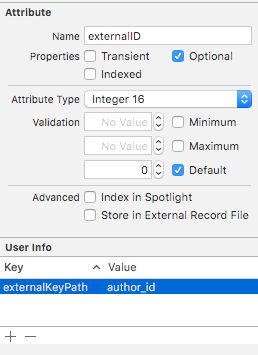
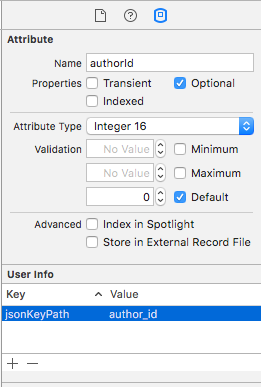
externalID and externalKeyPath renaming

Changed region(s): [[0.0, 0.0, 1.0, 1.0], [0.6512, 0.1239, 0.9302, 0.2479], [0.9612, 0.062, 0.9922, 0.1859]]

diff --git a/Example/Tests/ModelTests.swift b/Example/Tests/ModelTests.swift
@@ -91,7 +91,7 @@ class ModelTests: XCTestCase
     func testPopulateObjectAttributes()
     {
         let book = Book(dictionary: bookDict1, entity: bookEntity)
-        XCTAssertEqual(book.externalID!.integerValue, Int(bookId1))
+        XCTAssertEqual(book.bookId!.integerValue, Int(bookId1))
         XCTAssertEqual(book.title, title1)
         XCTAssertEqual(book.year, year1)
     }
@@ -112,7 +112,7 @@ class ModelTests: XCTestCase
             return
         }
         
-        XCTAssertEqual(author.externalID!.integerValue, Int(authorId1))
+        XCTAssertEqual(author.authorId!.integerValue, Int(authorId1))
         XCTAssertEqual(author.firstName, firstName1)
         XCTAssertEqual(author.lastName, lastName1)
         XCTAssertEqual(books.count, bookDicts.count)
@@ -207,14 +207,14 @@ class ModelTests: XCTestCase
     func testEncodeObjectAttributes()
     {
         let book = Book(dictionary: JsonDictionary(), entity: bookEntity)
-        book.externalID = NSNumber(integer: Int(bookId1)!)
+        book.bookId = NSNumber(integer: Int(bookId1)!)
         book.title = title1
         book.year = year1
         book.rating = Stars(rawValue: rating1) ?? .zero
         book.favorite = Heart(isFavorite: Optional(favorite1))
         
         let dict = book.dictionaryRepresentation
-        XCTAssertTrue(dict[bookIdKey] as! Int == book.externalID!.integerValue &&
+        XCTAssertTrue(dict[bookIdKey] as! Int == book.bookId!.integerValue &&
             dict[titleKey] as! String == title1 &&
             dict[yearKey] as! String == year1 &&
             dict[ratingKey] as! Int == rating1 &&
@@ -246,5 +246,5 @@ class ModelTests: XCTestCase
     
     
     
-    // TODO: Add tests for externalKeypath
+    // TODO: Add tests for jsonKeyPath
 }

diff --git a/Example/Modelmatic/Book.swift b/Example/Modelmatic/Book.swift
@@ -11,22 +11,21 @@ class Book: ModelObject
 {
     static let entityName = "Book"
     
-    var externalID: NSNumber?
+    var bookId: NSNumber?
     var title: String!
     var year: String?
     var tags: [String]?
     var favorite: Heart = .no
     var rating: Stars = .zero
     
-    // Reference to child object in one-to-one relationship
+    // Strong reference to child object, one-to-one relationship
     var pricing: Pricing?
     
-    // Reference to parent object in one-to-many relationship
-    // IMPORTANT: Use weak reference when modeling inverse relationship.
+    // Weak reference to parent object, inverse of one-to-many relationship
     weak var author: Author?
     
     override var description: String {
-        return "\(super.description) title: \(title); year: \(year), tags: \(tags), externalID: \(externalID)"
+        return "\(super.description) title: \(title); year: \(year), tags: \(tags), bookId: \(bookId)"
     }
 }
 

diff --git a/Example/Modelmatic/Author.swift b/Example/Modelmatic/Author.swift
@@ -11,12 +11,12 @@ class Author: ModelObject
 {
     static let entityName = "Author"
     
-    var externalID: NSNumber?
+    var authorId: NSNumber?
     var firstName: String?
     var lastName: String?
     var dateOfBirth: NSDate?
-    var imageURL: UIImage?
     
+    // Strong reference to children, one-to-many relationship
     var books: [Book]?
 }
 
@@ -24,9 +24,11 @@ class Author: ModelObject
 extension Author
 {
     var fullName: String {
-        return (lastName == nil && firstName == nil ? "Unknown" :
-            lastName == nil ? firstName! :
-            firstName == nil ? lastName! :
-            "\(lastName!), \(firstName!)")
+        switch (first: firstName, last: lastName) {
+        case let (first?, last?): return "\(last), \(first)"
+        case let (first?, _):     return first
+        case let (_, last?):      return last
+        default: return "Unknown"
+        }
     }
 }

diff --git a/Modelmatic/Classes/Extensions.swift b/Modelmatic/Classes/Extensions.swift
@@ -10,7 +10,7 @@ public typealias JsonDictionary = [String: AnyObject]
 extension NSPropertyDescription
 {
     public var keyPath: String {
-        return userInfo?["externalKeyPath"] as? String ?? name
+        return userInfo?["jsonKeyPath"] as? String ?? name
     }
 }
 

diff --git a/Example/Modelmatic/Pricing.swift b/Example/Modelmatic/Pricing.swift
@@ -15,7 +15,7 @@ class Pricing: ModelObject
 {
     static let entityName = "Pricing"
     
-    var externalID: NSNumber!
+    var pricingId: NSNumber!
     var retailPrice: Double?
     var discountedPrice: Double?
     

diff --git a/README.md b/README.md
@@ -62,7 +62,7 @@ import Modelmatic
     static let entityName = "Author"
     
     // Mapped to 'author_id' in the corresponding attribute's User Info dictionary
-    var externalID: NSNumber!
+    var authorId: NSNumber!
     var firstName: String?
     var lastName: String?
     var dateOfBirth: NSDate?
@@ -79,9 +79,7 @@ Key points:
 * Subclass `ModelObject`.
 * Use `@objc()` to avoid potential namespacing issues.
 * Define a static let constant named `entityName` to specify the name of the associated entity in the Core Data model file.
-* `externalID` is mapped to `author_id` in the model (see the attribute definition's User Info dictionary).
-  
-  ![Defining a custom mapping](Screenshots/custom-mapping.png)
+* `authorId` is mapped to `author_id` in the model (see the attribute definition's User Info dictionary).
 * Modelmatic automatically maps all the other properties, included the nested `books` property.
 
 #### Customizing Mappings
@@ -91,14 +89,14 @@ Modelmatic automatically matches names of properties you specify as attributes o
 However, the framework also allows you to specify custom mappings as needed. For instance, the `Author` class has the following property:
 
 ```swift
-    var externalID: NSNumber!
+    var authorId: NSNumber!
 ``` 
 
-A custom mapping is provided in the model file, binding the `externalID` attribute defines to the JSON key path `author_id`, as shown below:
+A custom mapping is provided in the model file, binding the `authorId` attribute defines to the JSON key path `author_id`, as shown below:
 
 ![Customizing a property mapping](Screenshots/custom-mapping.png)
 
-To add a custom mapping, select an attribute or relationship in the model editor, and add an entry to it's *User Info* dictionary. The key should be **externalKeypath**, and the value should be the key or key path (dot-separated property path) used in the JSON dictionary. During encoding and decoding, Modelmatic will automatically map between your object's property, as defined by its attribute or relationship name, and the custom key path you specified to access JSON values.
+To add a custom mapping, select an attribute or relationship in the model editor, and add an entry to it's *User Info* dictionary. The key should be **jsonKeyPath**, and the value should be the key or key path (dot-separated property path) used in the JSON dictionary. During encoding and decoding, Modelmatic will automatically map between your object's property, as defined by its attribute or relationship name, and the custom key path you specified to access JSON values.
 
 
 #### Defining Relationships
